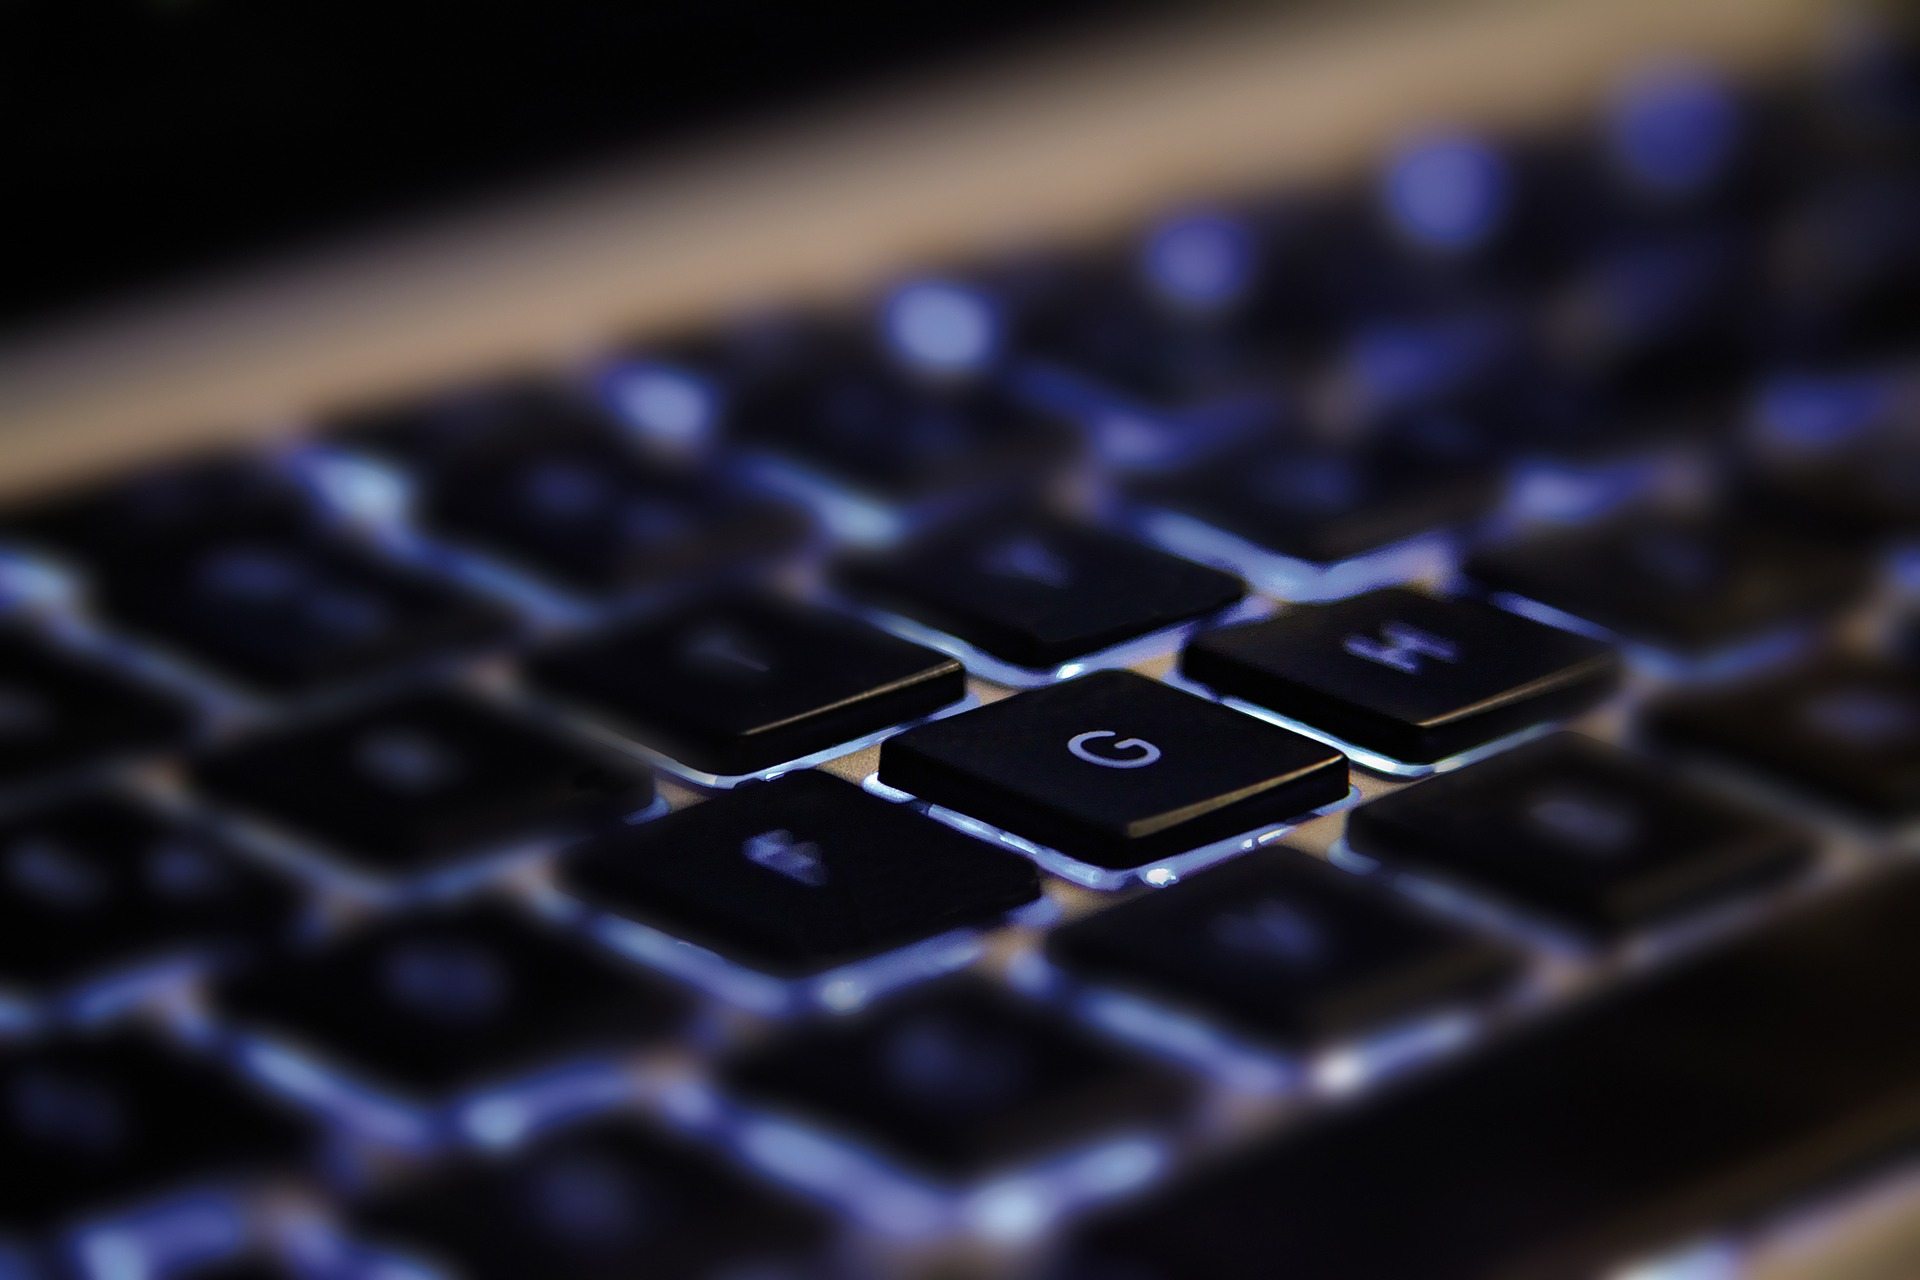
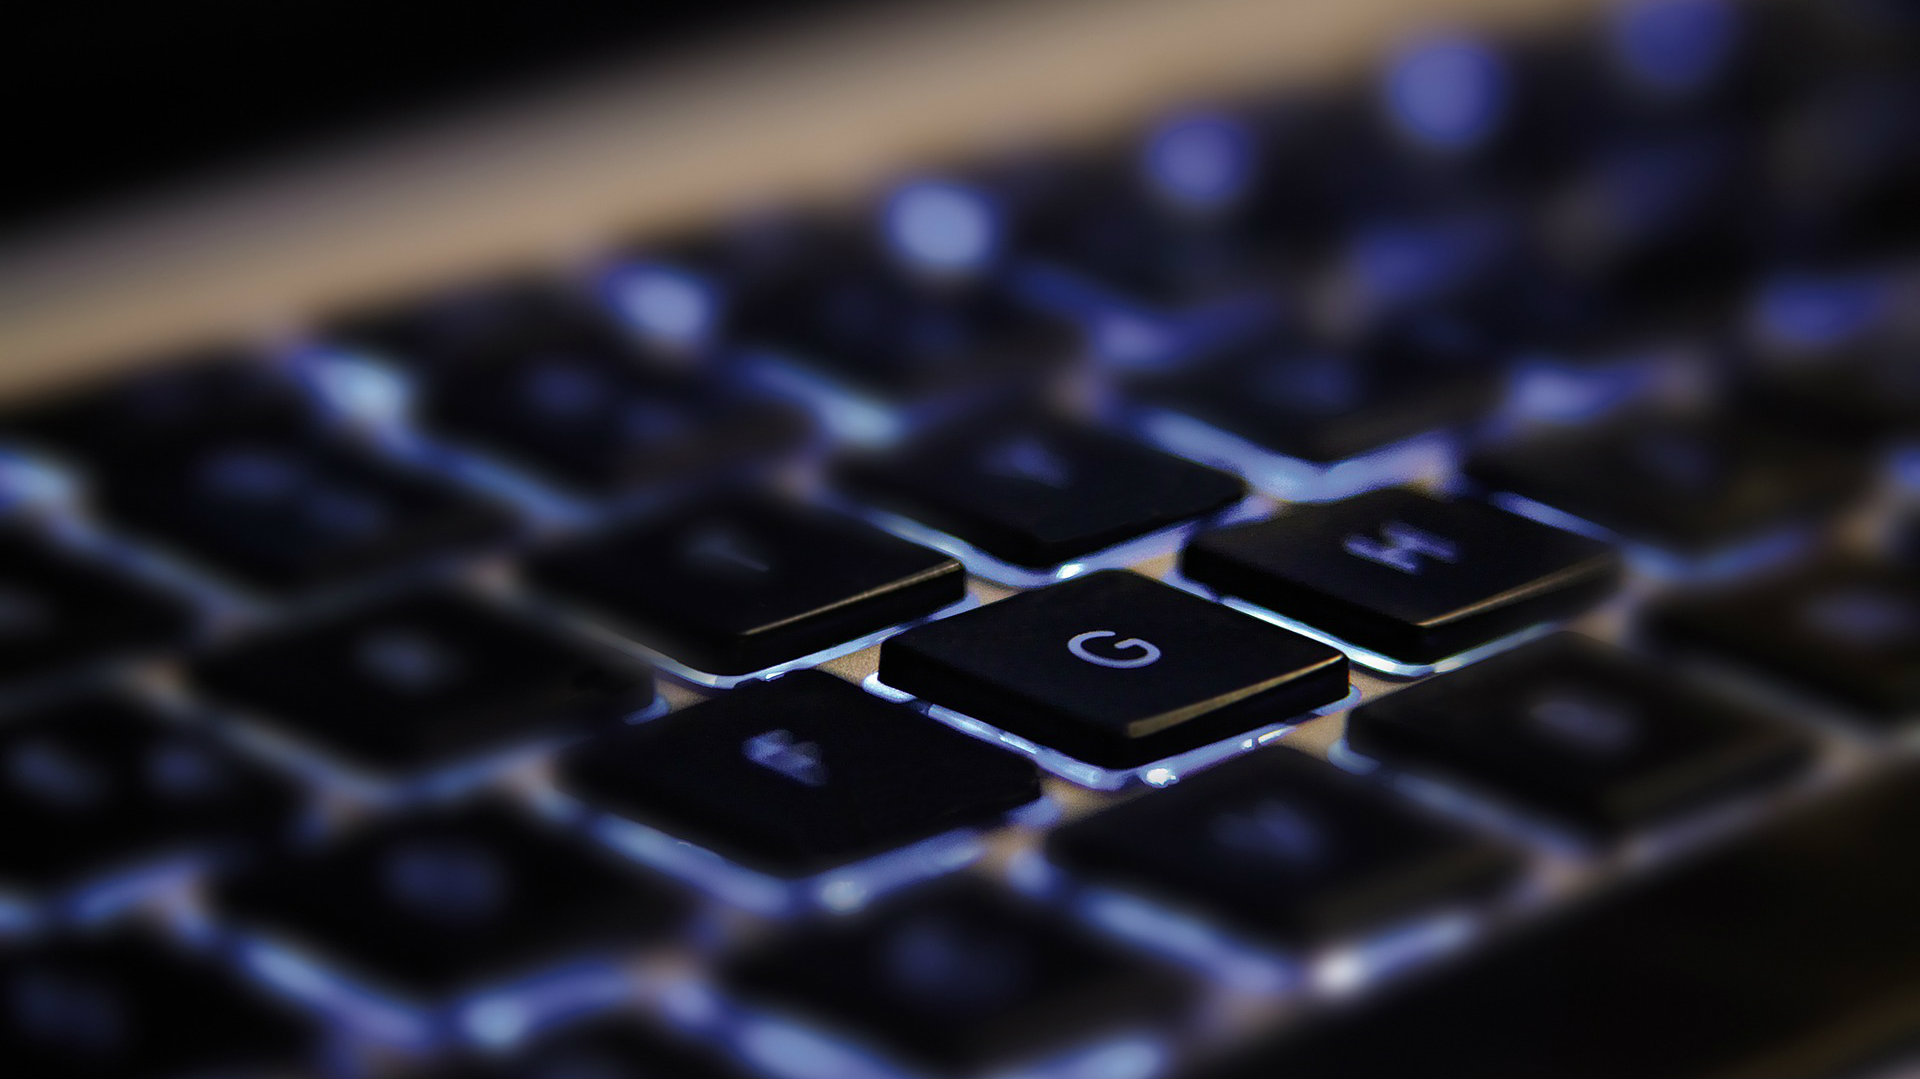
updated database from an object to a json file

diff --git a/css/app.min.css b/css/app.min.css
@@ -1,2 +1,2 @@
-#pageHeader{width:100%;position:fixed;left:0;top:0;height:80px;background-color:#1C1F26;color:#BFBBB8;box-shadow:-1px 3px 6px #13140F}#pageHeader .brand{padding:25px;font-weight:bold;font-size:2em;font-family:sans-serif;display:inline-block;text-shadow:-1px 3px 6px #13140F}#pageHeader .brand2{display:none}#pageHeader i{text-shadow:-1px 3px 6px #13140F;color:#BFBBB8;position:absolute;padding:.4em;right:0;top:0;border-radius:.1em;font-size:30px;margin:10px}#pageHeader i:hover{color:#77828C;cursor:pointer}#pageHeader .brand span{color:#77828C}#page-nav{width:240px;height:100%;position:fixed;background:#2C3540;display:inline-block;left:-240px;top:0;bottom:0;-webkit-transition:left .3s ease-in-out;-o-transition:left .3s ease-in-out;transition:left .3s ease-in-out;text-align:center;z-index:3}#page-nav a{text-decoration:none;display:block;padding:15px 0;border-bottom:1px solid #BFBBB8;color:#BFBBB8}#page-nav a:hover{color:#77828C}#page-nav li:last-child a{border-bottom:none}footer{height:150px;background-color:black;text-align:center;font-size:2em;margin-top:1em}footer i{padding-top:50px;color:white}footer p{padding-top:1em;color:white;font-size:.5em}footer i:hover{color:#2da6ed}#projects{padding:0 1em}#projects>h1{text-align:center;padding-top:20px;padding-bottom:20px}#projects article{text-align:center}#projects article h1{margin-top:20px;font-weight:bold;font-size:1.8em}.project-description{padding-bottom:1em;line-height:1.3em}.byline{padding-bottom:1em}.show{display:block}#projects-filters ul{display:none}.project-description a{text-decoration:none;color:black;font-style:italic}.project-description a:hover{color:blue}.project-description span.less{display:none}#project-img{width:100px;height:100px;border:1px solid black;border-radius:10px;margin-top:20px}@media screen and (min-width: 640px){.project-description{width:50%;margin:0 auto}#pageHeader i{display:none}#page-nav{position:static;background:none;width:auto}#page-nav ul li{display:inline-block;padding-right:20px}#page-nav a{border-bottom:none}#pageHeader .brand2{display:inline-block}#pageHeader .brand1{display:none}}#about{display:none}html{position:relative;min-height:100%}body{margin:0 0 150px;width:100%;font-family:'Raleway', sans-serif}footer{position:absolute;left:0;bottom:0;width:100%}main{margin-bottom:170px}#projects{margin-top:20px}#projects>header{text-align:center;width:100%}#projects header h1{font-size:2.4em;margin-bottom:20px}#projects-filters button{width:100%;height:30px;font-size:1.2em}#type-filter{width:100%;height:30px;margin-top:20px;font-size:1.2em}#hero{background-image:url("../img/keyboard.jpg");background-size:100% auto;background-repeat:no-repeat;width:100%;height:380px;margin-top:80px}
+#pageHeader{width:100%;position:fixed;left:0;top:0;height:80px;background-color:#1C1F26;color:#BFBBB8;box-shadow:-1px 3px 6px #13140F}#pageHeader .brand{padding:25px;font-weight:bold;font-size:2em;font-family:sans-serif;display:inline-block;text-shadow:-1px 3px 6px #13140F}#pageHeader .brand2{display:none}#pageHeader i{text-shadow:-1px 3px 6px #13140F;color:#BFBBB8;position:absolute;padding:.4em;right:0;top:0;border-radius:.1em;font-size:30px;margin:10px}#pageHeader i:hover{color:#77828C;cursor:pointer}#pageHeader .brand span{color:#77828C}#page-nav{width:240px;height:100%;position:fixed;background:#2C3540;display:inline-block;left:-240px;top:0;bottom:0;-webkit-transition:left .3s ease-in-out;-o-transition:left .3s ease-in-out;transition:left .3s ease-in-out;text-align:center;z-index:3}#page-nav a{text-decoration:none;display:block;padding:15px 0;border-bottom:1px solid #BFBBB8;color:#BFBBB8}#page-nav a:hover{color:#77828C}#page-nav li:last-child a{border-bottom:none}footer{height:150px;background-color:black;text-align:center;font-size:2em;margin-top:1em}footer i{padding-top:50px;color:white}footer p{padding-top:1em;color:white;font-size:.5em}footer i:hover{color:#2da6ed}#projects{padding:0 1em}#projects>h1{text-align:center;padding-top:20px;padding-bottom:20px}#projects article{text-align:center}#projects article h1{margin-top:20px;font-weight:bold;font-size:1.8em}.project-description{padding-bottom:1em;line-height:1.3em}.byline{padding-bottom:1em}.show{display:block}#projects-filters ul{display:none}.project-description a{text-decoration:none;color:black;font-style:italic}.project-description a:hover{color:blue}.project-description span.less{display:none}#project-img{width:100px;height:100px;border:1px solid black;border-radius:10px;margin-top:20px}@media screen and (min-width: 640px){.project-description{width:50%;margin:0 auto}#pageHeader i{display:none}#page-nav{position:static;background:none;width:auto}#page-nav ul li{display:inline-block;padding-right:20px}#page-nav a{border-bottom:none}#pageHeader .brand2{display:inline-block}#pageHeader .brand1{display:none}}#about{display:none}html{position:relative;min-height:100%}body{margin:0 0 150px;width:100%;font-family:'Raleway', sans-serif}footer{position:absolute;left:0;bottom:0;width:100%}main{margin-bottom:170px}#projects{margin-top:20px}#projects>header{text-align:center;width:100%}#projects header h1{font-size:2.4em;margin-bottom:20px}#projects-filters button{width:100%;height:30px;font-size:1.2em}#type-filter{width:100%;height:30px;margin-top:20px;font-size:1.2em}#hero{width:100%;margin-top:80px;max-height:400px;overflow:hidden}#hero-image{width:100%}
 /*# sourceMappingURL=app.min.css.map */

diff --git a/scss/module/_hero.scss b/scss/module/_hero.scss
@@ -1,10 +1,10 @@
 #hero {
   width: 100%;
-  height: 100%;
   margin-top: 80px;
+  max-height: 400px;
+  overflow: hidden;
 }
 
 #hero-image {
   width: 100%;
-  height: auto;
 }
